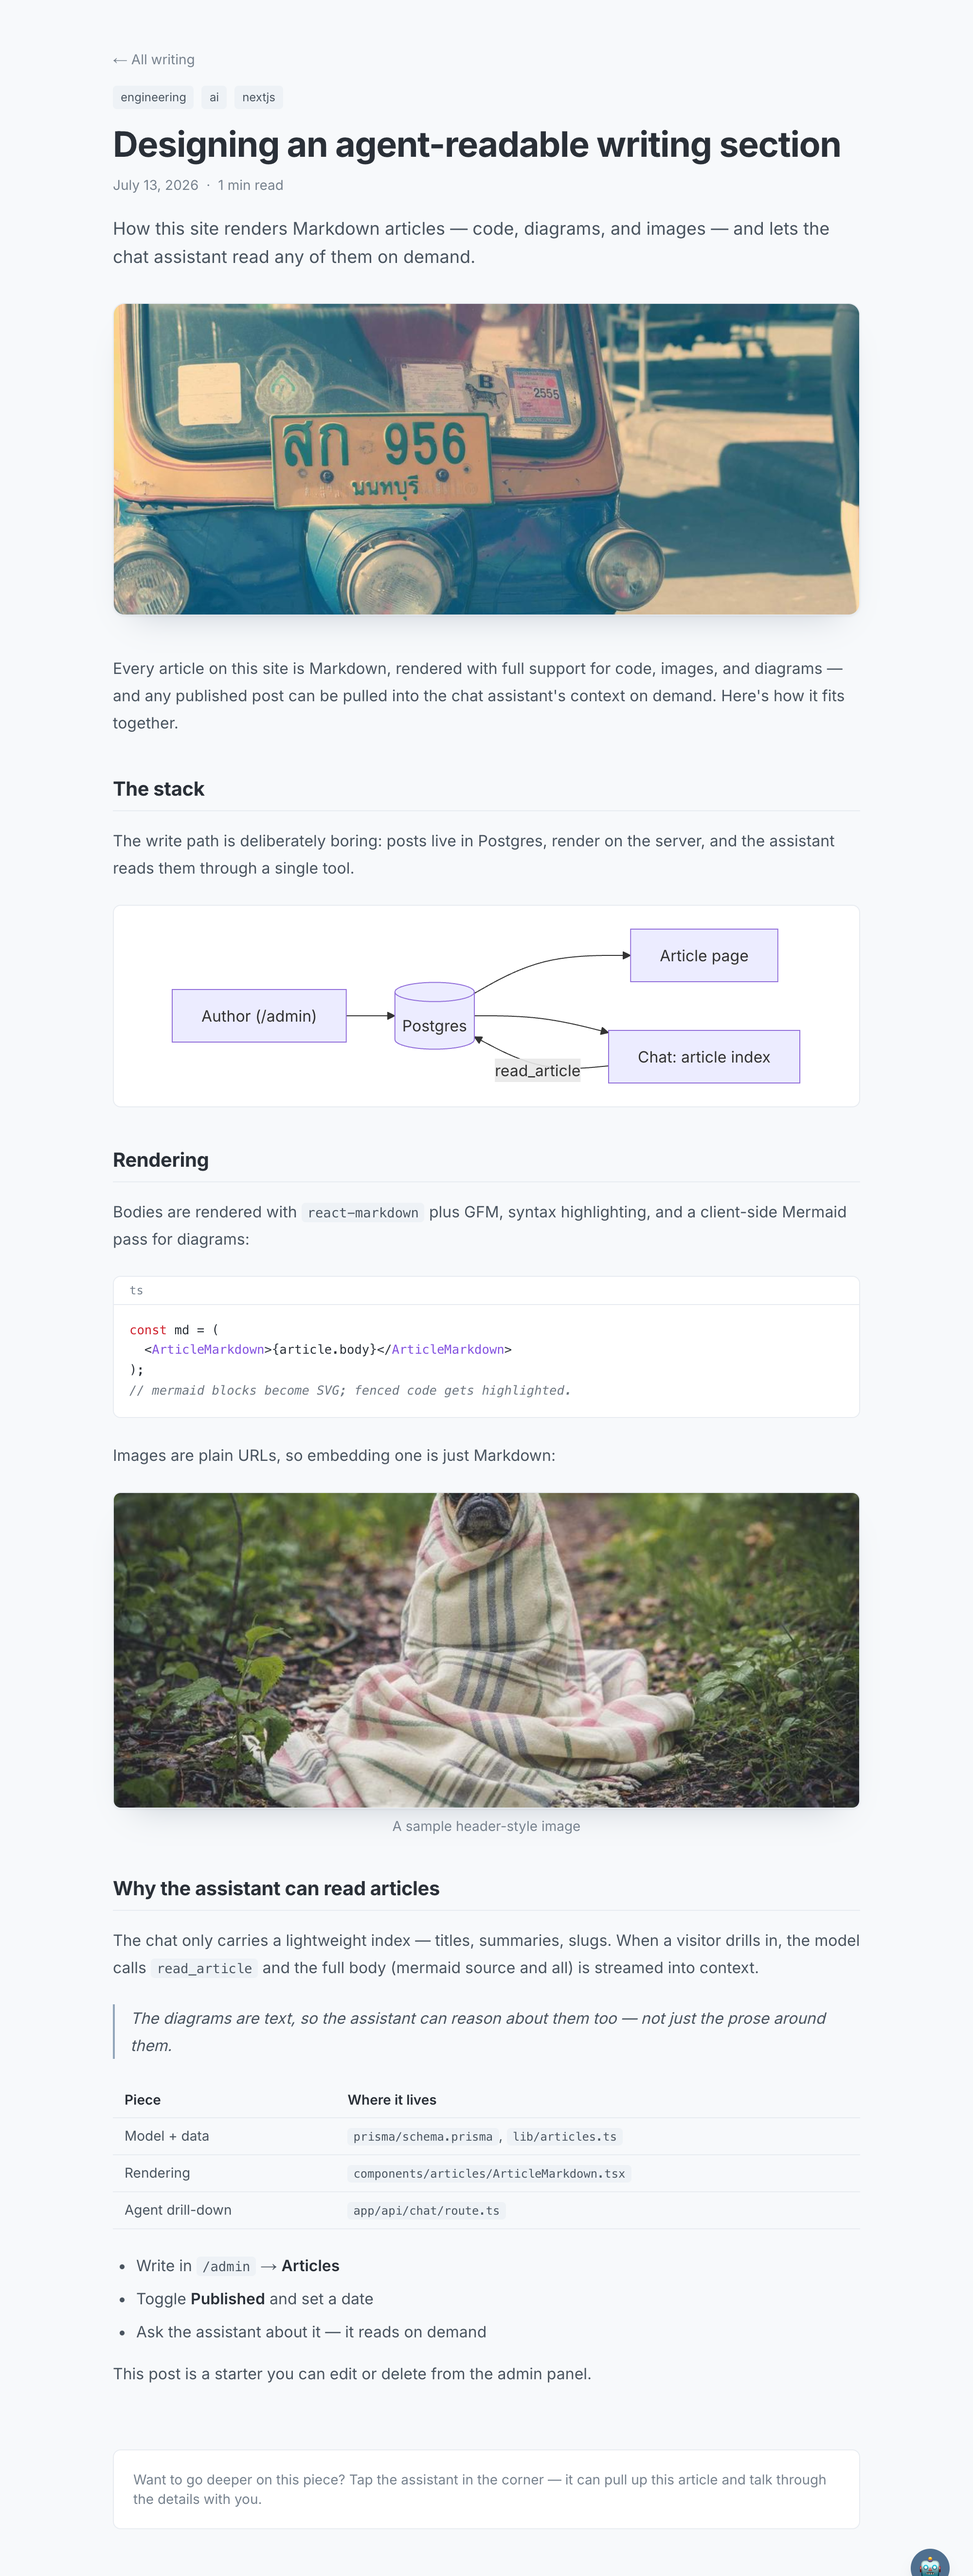
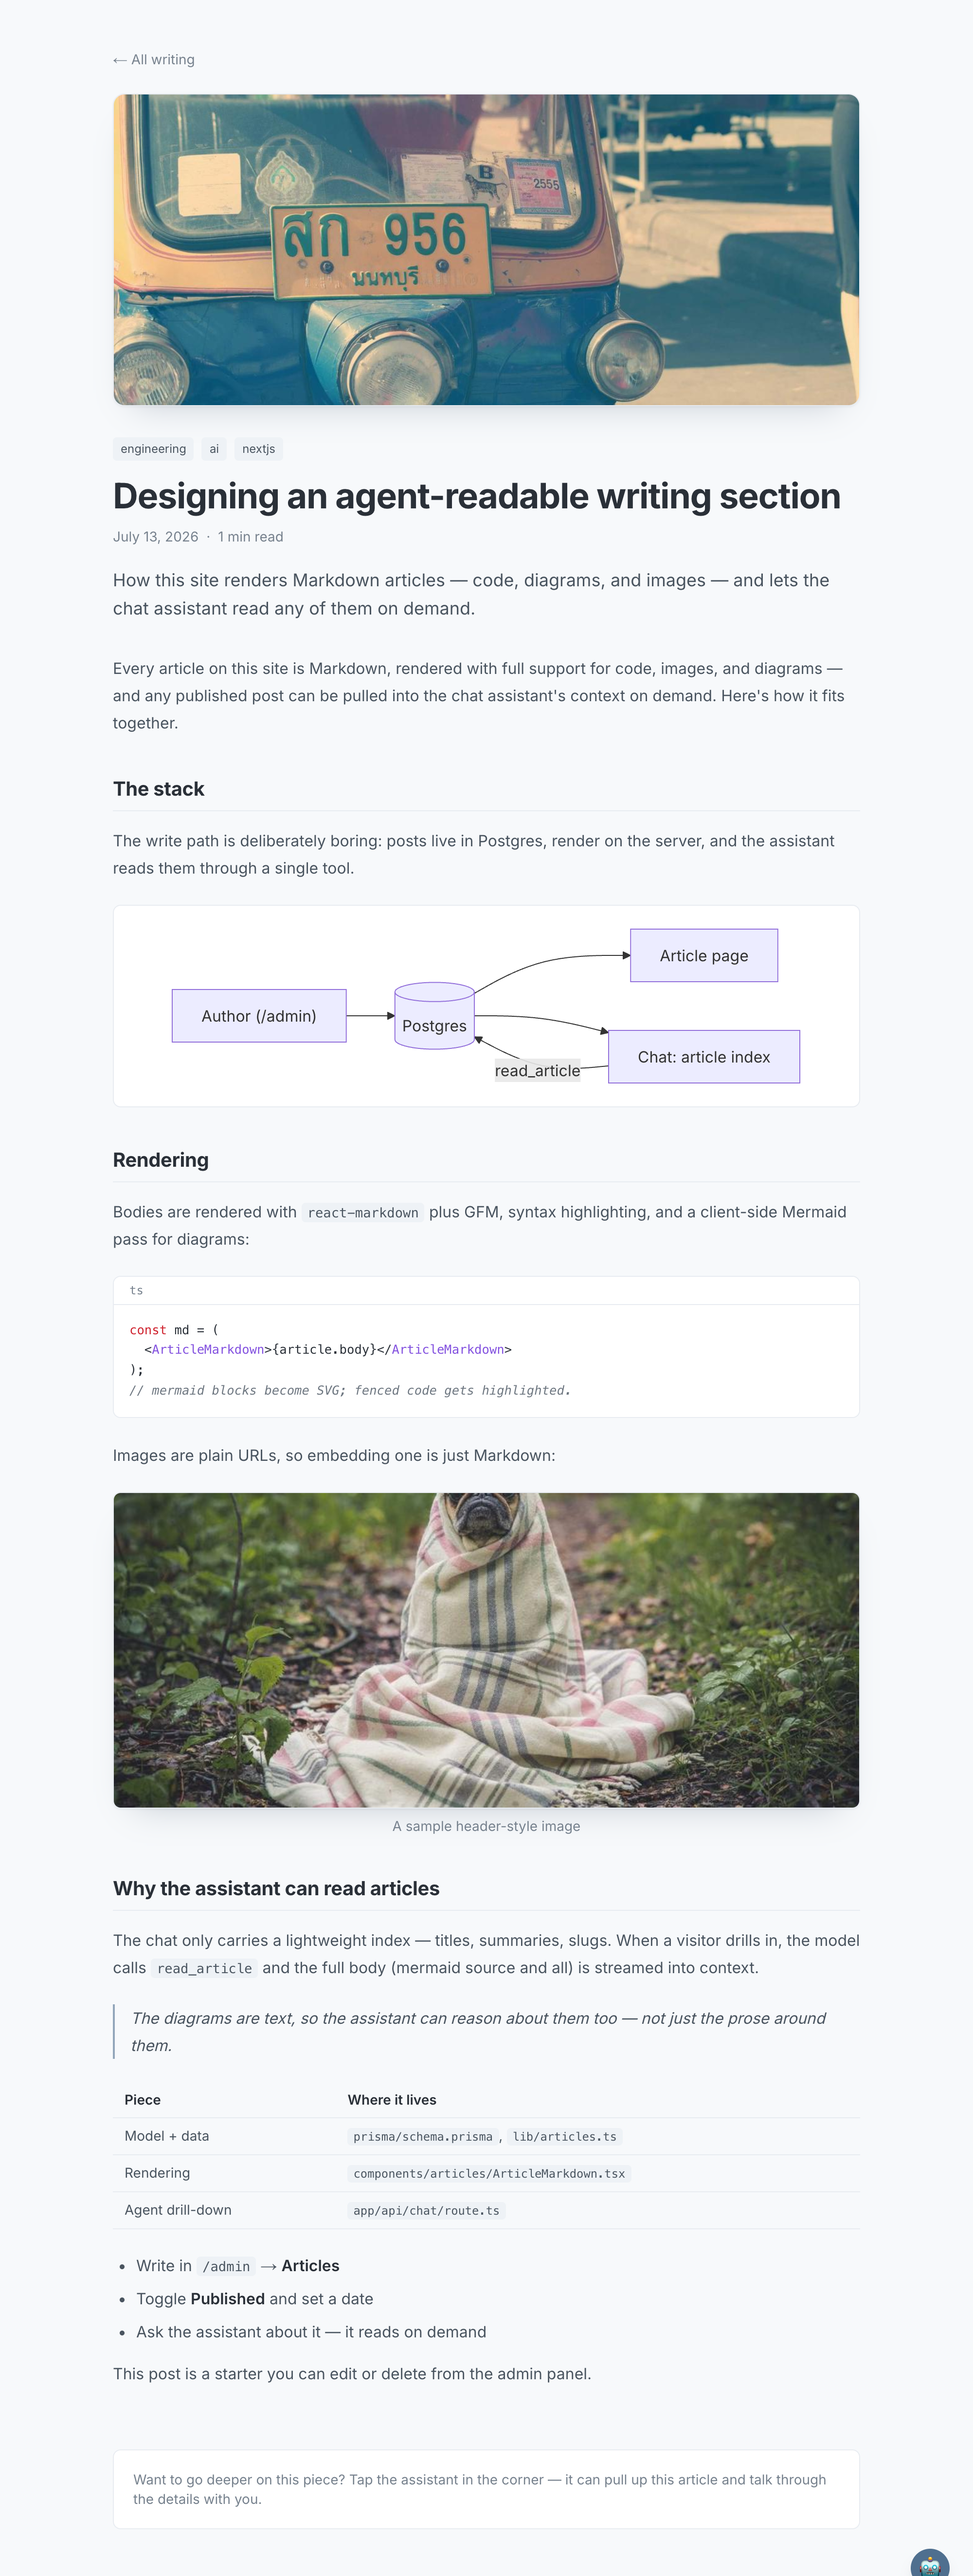
feat: move article header image above the title
Header image now renders as a hero above the tags/title on the article
page (was below the summary). Only shown when an article has one.

Changed region(s): [[0.093, 0.0312, 0.899, 0.2495]]

diff --git a/app/(main)/articles/[slug]/page.tsx b/app/(main)/articles/[slug]/page.tsx
@@ -58,6 +58,16 @@ export default async function ArticlePage({ params }: PageProps) {
               ← All writing
             </a>
 
+            {article.headerImageUrl ? (
+              // eslint-disable-next-line @next/next/no-img-element -- arbitrary
+              // external URL; next/image needs known dimensions.
+              <img
+                src={article.headerImageUrl}
+                alt=""
+                className="mb-8 mt-6 max-h-[420px] w-full rounded-xl border border-hair object-cover shadow-soft"
+              />
+            ) : null}
+
             <header className="mb-8 mt-4">
               {article.tags.length ? (
                 <div className="mb-4 flex flex-wrap gap-2">
@@ -94,16 +104,6 @@ export default async function ArticlePage({ params }: PageProps) {
                 </p>
               ) : null}
             </header>
-
-            {article.headerImageUrl ? (
-              // eslint-disable-next-line @next/next/no-img-element -- arbitrary
-              // external URL; next/image needs known dimensions.
-              <img
-                src={article.headerImageUrl}
-                alt=""
-                className="mb-10 max-h-[420px] w-full rounded-xl border border-hair object-cover shadow-soft"
-              />
-            ) : null}
 
             <ArticleMarkdown>{article.body}</ArticleMarkdown>
 
